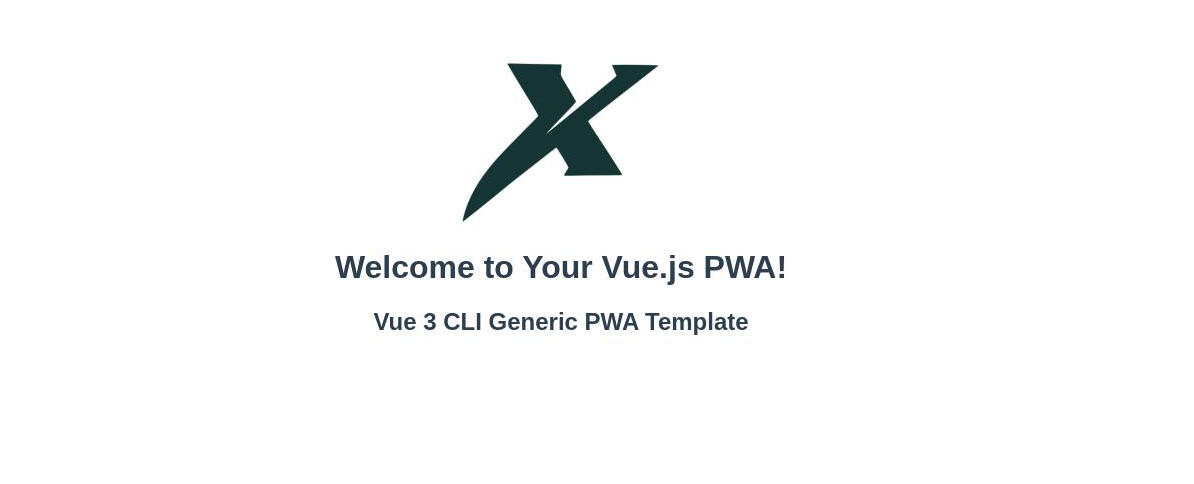
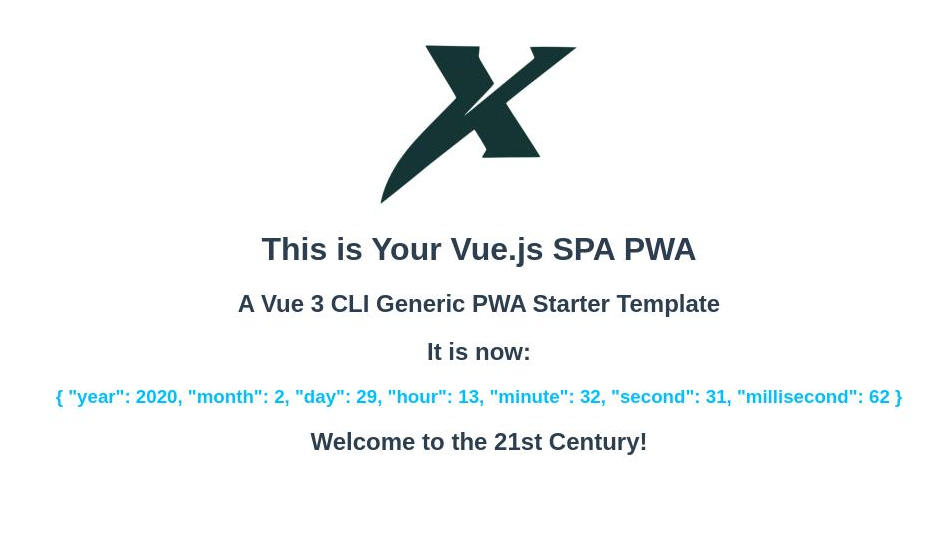
Update

diff --git a/src/App.vue b/src/App.vue
@@ -1,17 +1,31 @@
 <template>
   <div id="app">
-    <img alt="Vue logo" src="./assets/logo.webp">
-    <HelloWorld msg="Welcome to Your Vue.js PWA!"/>
+    <img alt="Vue logo" src="./assets/img/logo.webp">
+    <h1>This is Your Vue.js SPA PWA</h1>
+    <h2>A Vue 3 CLI Generic PWA Starter Template</h2>
+    <h2>It is now:</h2> <span><h3>{{now}}</h3></span>
+    <h2>Welcome to the 21st Century!</h2>
   </div>
 </template>
 
 <script>
-import HelloWorld from './components/HelloWorld.vue'
-
 export default {
   name: 'App',
+  data: function() {
+     return {
+    
+  };
+},
+  created: function () {
+    const { DateTime } = require("luxon");
+    let now = DateTime.local();
+    this.now = now['c'];
+    console.log(now['c']);
+  },
   components: {
-    HelloWorld
+  },
+  methods: {
+  
   }
 }
 </script>
@@ -24,5 +38,8 @@ export default {
   text-align: center;
   color: #2c3e50;
   margin-top: 60px;
+}
+h3 {
+color:deepskyblue;
 }
 </style>

diff --git a/src/main.js b/src/main.js
@@ -1,5 +1,7 @@
 import Vue from 'vue'
 import App from './App.vue'
+import { DateTime } from "luxon";
+import './index.js'
 import './registerServiceWorker'
 
 Vue.config.productionTip = false

diff --git a/src/index.js b/src/index.js
@@ -1,0 +1,3 @@
+/*Extra Javascript here*/
+
+

diff --git a/src/assets/css/custom.css b/src/assets/css/custom.css
@@ -1,0 +1,1 @@
+/*Its blank

diff --git a/README.md b/README.md
@@ -1,6 +1,6 @@
 # vue-cli3-generic-pwa
 
-Generic Vue CLI PWA Template with PWA plugin added, other npm packages, manifest.json and registerServiceWorker ready to go
+Generic Vue CLI PWA Template with PWA plugin added, other npm packages like Luxon date/time, manifest.json and registerServiceWorker ready to go
 
 ## Project setup
 ```
